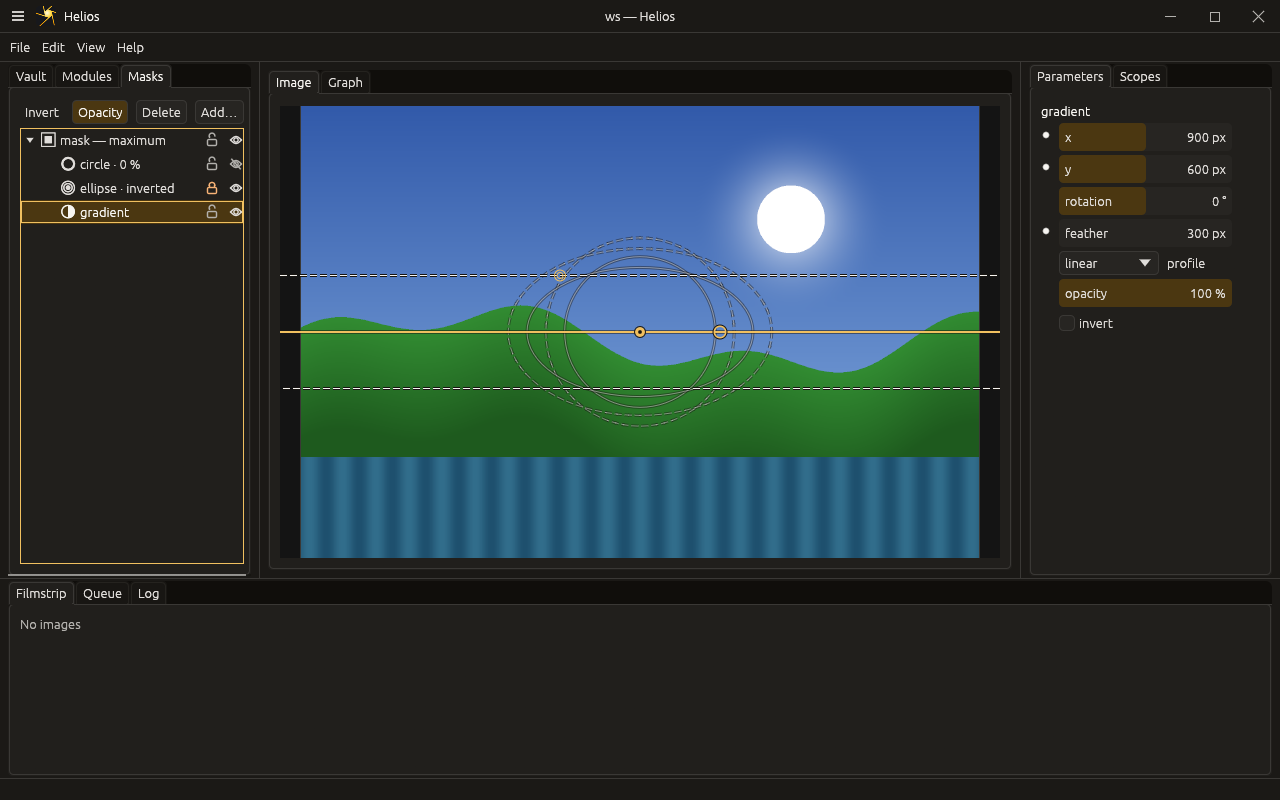
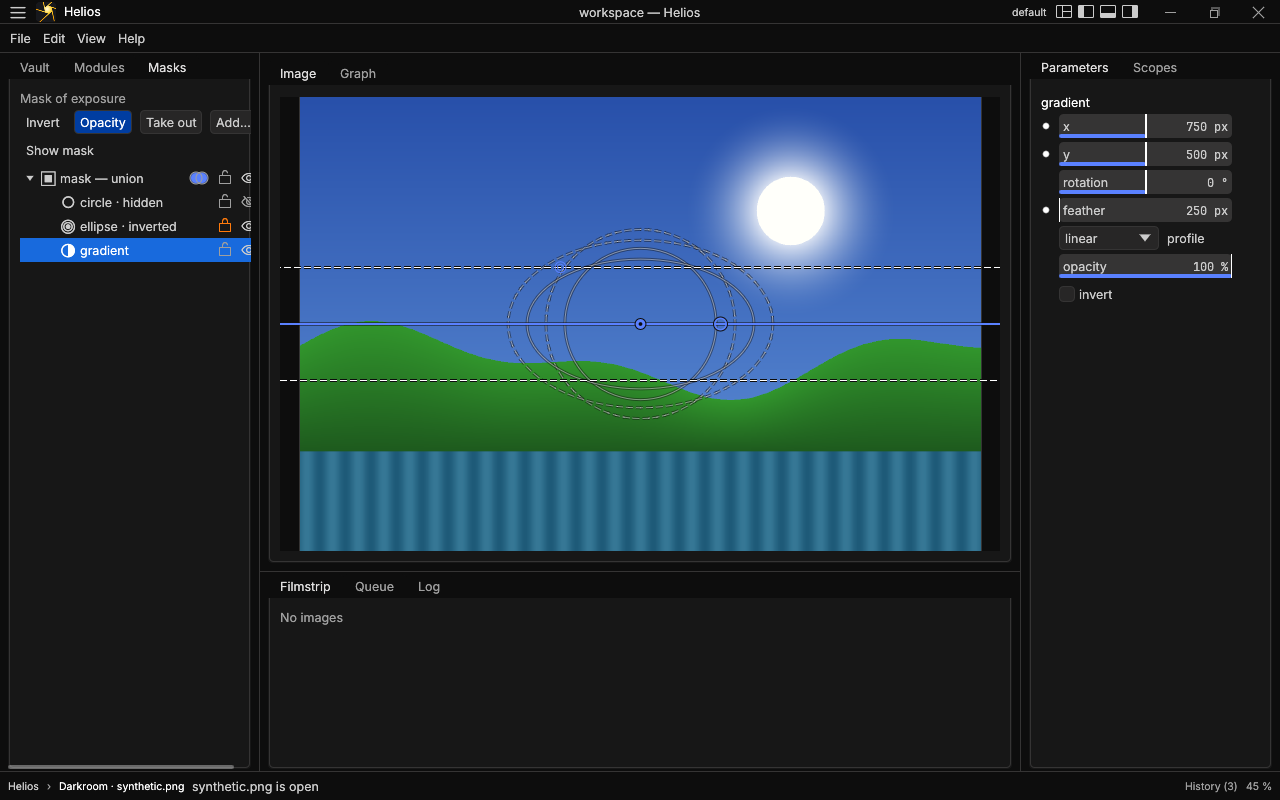
Docs: the masks pictures in Rerun's look
Redrawn headless by the bench box's masks-shots doc=yes, at 1280x800 in
the default theme: the viewport's selected path beside a faint circle
and its dashed feather, and the Masks panel's rows with their icons,
eyes and locks (the circle hidden, the ellipse inverted and locked, the
gradient selected). No tip card covers them. The captions say they are
driven through the palette now, and how to draw them again.

diff --git a/docs/gui.md b/docs/gui.md
@@ -1445,10 +1445,12 @@ the `--image` network has one mask (on its exposure).
 
 ![A circle and a path edited on the viewport](gui/masks-wbox.png)
 
-The picture is a run of `helios-gui --image` in wbox, driven by its
-keys and pointer: `C` for a circle, then `P`, five clicks and Enter for
-a path. The path, selected, shows its edge and its handles; the circle
-is drawn faint, its feather dashed.
+The picture is a run of `helios-gui --image` on a synthetic picture in
+wbox, driven by its command palette and pointer: a circle at the view's
+centre, then a path of five clicks, closed. The path, selected, shows
+its edge and its handles; the circle is drawn faint, its feather dashed.
+The bench box's `masks-shots doc=yes` draws it again (see
+[bench.md](bench.md)).
 
 ### The mask display
 
@@ -1610,10 +1612,11 @@ not shown in the tree, only its group's for it.
 
 ![The Masks panel beside the image](gui/mask-tree-wbox.png)
 
-The picture is a run of `helios-gui --image` in wbox: `C`, `E` and `G`
-on the image, then in the Masks panel the ellipse inverted (Invert) and
-locked (its row's lock), the circle hidden (its row's eye) and the
-gradient selected.
+The picture is a run of `helios-gui --image` in wbox, driven by its
+command palette: a circle, an ellipse and a gradient added, the circle
+hidden (as its row's eye does), the ellipse inverted and locked (as
+Invert and its row's lock do), and the gradient selected. The bench
+box's `masks-shots doc=yes` draws it again (see [bench.md](bench.md)).
 
 The picture is a run of `helios-gui --image` in wbox (a headless nested
 compositor). Beside the same run of the viewport it replaced, the image's
